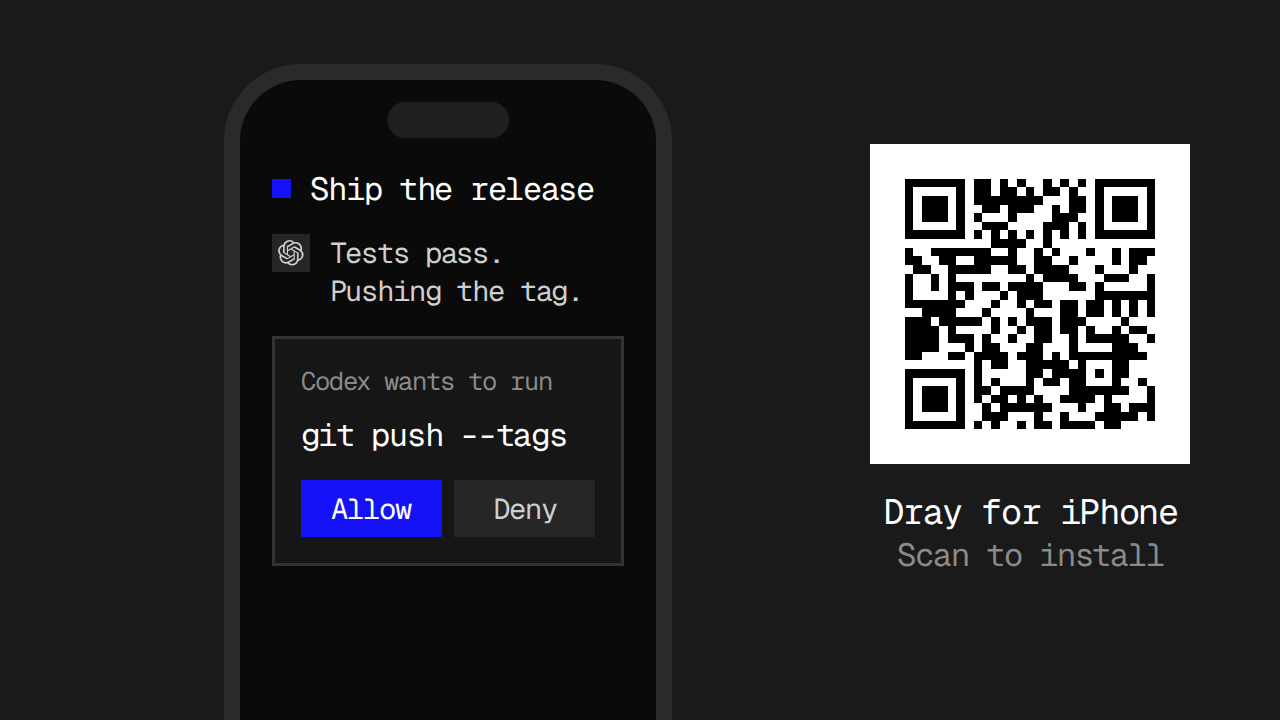
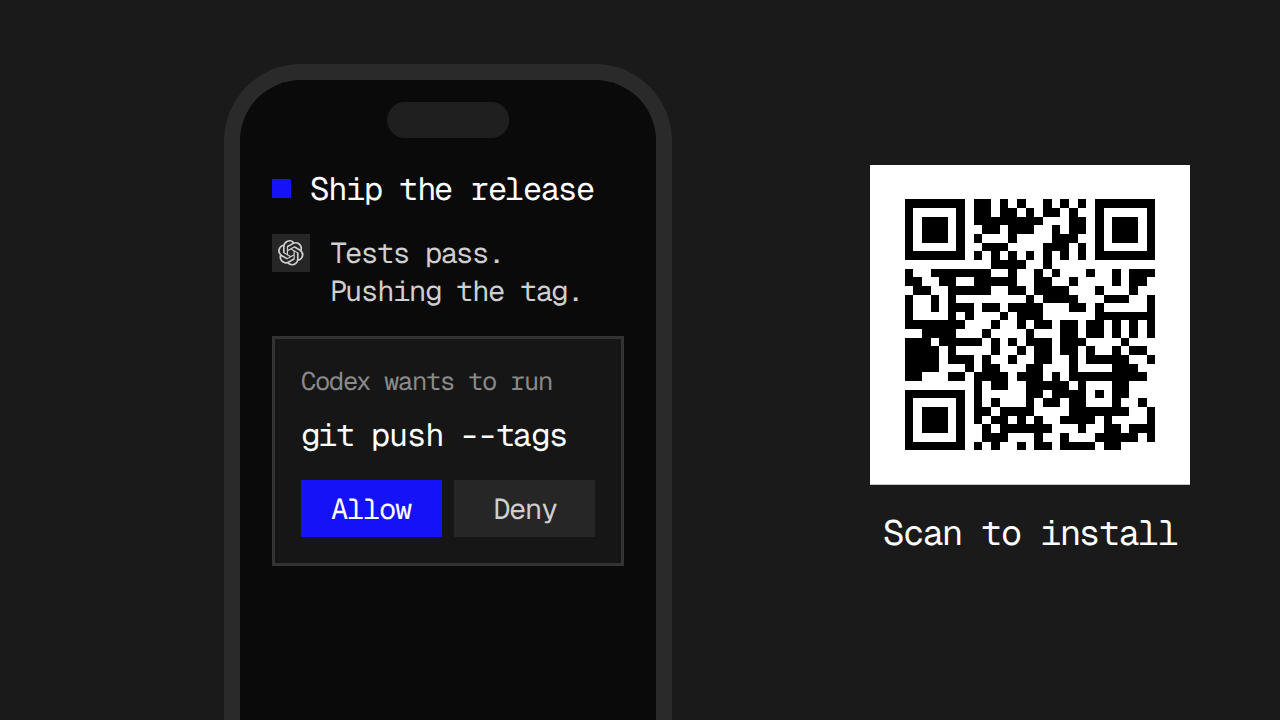
docs(demo): real app screenshot in iPhone take
Lock screen dropped. iPhone take sets the App Store bot-chat export
(01-bot-chat, 6.9in) in a drawn 16 Pro Max frame, QR captioned
Scan to install only. Harness C: Claude mark in brand colour, no
next label. Take F uses harness-composer and iphone-app.

Changed region(s): [[0.6562, 0.1833, 0.9375, 0.7944]]

diff --git a/apps/desktop/src/demo/whatsNewIllustrations.tsx b/apps/desktop/src/demo/whatsNewIllustrations.tsx
@@ -52,15 +52,31 @@ function You({ children, small }: { children: ReactNode; small?: boolean }) {
 }
 
 /// An agent's reply under its mark: grey for the agent it was, blue for the
-/// one it moved to.
-function Says({ harness, picked, small, children }: { harness: Harness; picked?: boolean; small?: boolean; children: ReactNode }) {
+/// one it moved to. `brand` draws the mark in the agent's own colour.
+function Says({
+  harness,
+  picked,
+  brand,
+  small,
+  children,
+}: {
+  harness: Harness;
+  picked?: boolean;
+  brand?: boolean;
+  small?: boolean;
+  children: ReactNode;
+}) {
   return (
     <div className="flex items-start gap-1.5">
       <span
         className={cn("flex shrink-0 items-center justify-center", small ? "size-3" : "size-[15px]")}
         style={{ background: picked ? BLUE : "#262626" }}
       >
-        <AgentIcon harness={harness} className={cn(small ? "size-2" : "size-2.5", picked ? "text-white" : "text-[#CFCFCF]")} />
+        <AgentIcon
+          harness={harness}
+          brand={brand}
+          className={cn(small ? "size-2" : "size-2.5", !brand && (picked ? "text-white" : "text-[#CFCFCF]"))}
+        />
       </span>
       <span className={cn(MONO, "text-[#CFCFCF]", small ? "text-[9px] leading-3" : "text-[11px] leading-[15px]")}>{children}</span>
     </div>
@@ -158,7 +174,9 @@ function HarnessComposer() {
     <div aria-hidden className="flex w-[300px] flex-col bg-[#0A0A0A]">
       <div className="flex flex-col gap-2 px-3 pt-2.5 pb-2">
         <You>Why does sign-in loop?</You>
-        <Says harness="claude_code">The redirect fires twice. Fixed.</Says>
+        <Says harness="claude_code" brand>
+          The redirect fires twice. Fixed.
+        </Says>
       </div>
       <div className="mr-2 flex w-[150px] flex-col self-end border border-[#333333] bg-[#141414] shadow-[0_8px_24px_#000000A0]">
         {rows.map(([h, name]) => {
@@ -167,7 +185,6 @@ function HarnessComposer() {
             <div key={h} className="flex h-6 items-center gap-2 px-2" style={{ background: picked ? BLUE : undefined }}>
               <AgentIcon harness={h} className={cn("size-2.5", picked ? "text-white" : "text-[#8A8A8A]")} />
               <span className={cn(MONO, "text-[11px] leading-[14px]", picked ? "text-white" : "text-[#CFCFCF]")}>{name}</span>
-              {picked && <span className={`${MONO} ml-auto text-[9px] leading-3 text-[#FFFFFFB3]`}>next</span>}
             </div>
           );
         })}
@@ -204,10 +221,7 @@ function ScanToInstall() {
   return (
     <div className="absolute top-1/2 right-7 flex -translate-y-1/2 flex-col items-center gap-2">
       <Qr size={100} />
-      <div className="flex flex-col items-center">
-        <span className={`${MONO} text-[11px] leading-[14px] text-white`}>Dray for iPhone</span>
-        <span className={`${MONO} text-[10px] leading-[13px] text-[#8A8A8A]`}>Scan to install</span>
-      </div>
+      <span className={`${MONO} text-[11px] leading-[14px] text-white`}>Scan to install</span>
     </div>
   );
 }
@@ -273,22 +287,49 @@ function Alert({ title, body, mark }: { title: string; body: string; mark: strin
   );
 }
 
-/// The lock screen while the reader is away: one task ready to merge, one
-/// waiting on an answer, one done.
-function IPhoneLockScreen() {
+/// An iPhone 16 Pro Max drawn to its own proportions (a 440×956pt screen,
+/// 62pt corners, the Dynamic Island 126×37pt at 11pt), titanium rim and side
+/// buttons, bleeding off the tile's foot, a real screenshot on its screen.
+function RealPhone({ left, width = 150, src }: { left: number; width?: number; src: string }) {
+  const pt = (width - 10) / 440;
+  const radius = 62 * pt;
+  const button = (side: "left" | "right", top: number, height: number) => (
+    <span
+      className="absolute w-[2px] rounded-[1px] bg-gradient-to-b from-[#5A5A5E] via-[#3A3A3C] to-[#5A5A5E]"
+      style={{ [side]: -1.5, top: top * pt, height: height * pt }}
+    />
+  );
+  return (
+    <div className="absolute top-4" style={{ left, width }}>
+      {button("left", 150, 50)}
+      {button("left", 235, 85)}
+      {button("left", 335, 85)}
+      {button("right", 270, 135)}
+      {button("right", 560, 70)}
+      <div
+        className="relative bg-gradient-to-br from-[#8E8E93] via-[#3A3A3C] to-[#6E6E73] p-[1.5px] shadow-[0_20px_40px_#000000C0]"
+        style={{ height: 956 * pt + 10, borderRadius: radius + 5 }}
+      >
+        <div className="h-full bg-black p-[3.5px]" style={{ borderRadius: radius + 3.5 }}>
+          <div className="relative h-full overflow-hidden bg-black" style={{ borderRadius: radius }}>
+            <img src={src} alt="" className="absolute inset-0 size-full object-cover object-top" />
+            <span
+              className="absolute left-1/2 -translate-x-1/2 rounded-full bg-black"
+              style={{ top: 11 * pt, width: 126 * pt, height: 37 * pt }}
+            />
+          </div>
+        </div>
+      </div>
+    </div>
+  );
+}
+
+/// The app itself in the phone: the bot chat from its App Store screenshots
+/// (`01-bot-chat`, the 6.9-inch export), a merge and two waiting tasks on it.
+function IPhoneApp() {
   return (
     <div aria-hidden className="absolute inset-0">
-      <Phone left={56} width={156}>
-        <div className="flex flex-col items-center pt-1 pb-1.5">
-          <span className="text-[8px] leading-[10px] text-[#CFCFCF]">Tuesday 24 November</span>
-          <span className="text-[30px] leading-[34px] font-medium tracking-[-0.02em] text-white">9:41</span>
-        </div>
-        <div className="flex flex-col gap-1">
-          <Alert title="Ready to merge" body="Fix login loop" mark="#238636" />
-          <Alert title="Needs you" body="Postgres or SQLite?" mark={BLUE} />
-          <Alert title="Done" body="Add dark mode" mark="#3D3D3D" />
-        </div>
-      </Phone>
+      <RealPhone left={70} src="/demo/whats-new/ios-bot-chat.png" />
       <ScanToInstall />
     </div>
   );
@@ -335,7 +376,7 @@ const ROWS: { title: string; takes: Record<string, { name: string; Art: () => Re
     title: "Dray on iPhone",
     takes: {
       "iphone-permission": { name: "A · Allow from anywhere", Art: IPhonePermission },
-      "iphone-lock": { name: "B · Lock screen", Art: IPhoneLockScreen },
+      "iphone-app": { name: "B · The app in a real frame", Art: IPhoneApp },
       "iphone-question": { name: "C · Answer a question", Art: IPhoneQuestion },
     },
   },

diff --git a/apps/desktop/src/demo/whatsNewData.ts b/apps/desktop/src/demo/whatsNewData.ts
@@ -101,12 +101,12 @@ export const NEXT_RELEASE: Highlight[] = [
   page(
     "Switch a task's harness mid-session.",
     "Pick another harness in the composer and your next message moves the task there, with everything said so far.",
-    [{ kind: "image", url: "/demo/whats-new/harness-chat.png", alt: "One chat, Claude Code answering and then Codex" }],
+    [{ kind: "image", url: "/demo/whats-new/harness-composer.png", alt: "A chat Claude Code answered, Codex picked in the composer for the next message" }],
   ),
   page(
     "Dray is now on iPhone. Work from anywhere.",
     "Every task on every machine, with questions to answer, permissions to allow and alerts when one is ready to merge.",
-    [{ kind: "image", url: "/demo/whats-new/iphone-lock.png", alt: "Dray's alerts on an iPhone lock screen, beside a QR code for the App Store" }],
+    [{ kind: "image", url: "/demo/whats-new/iphone-app.png", alt: "Dray's bot chat on an iPhone, beside a QR code for the App Store" }],
     { label: "Get it on the App Store", target: "https://apps.apple.com/app/id6824145317" },
   ),
 ];

diff --git a/CLAUDE.md b/CLAUDE.md
@@ -272,7 +272,7 @@ That ordering is the whole feature. The index entry lands **before** spawn on pu
 
 ## Demo pages
 
-**Demos are kept, never deleted.** A question answered once comes back — a restyle, a regression, a palette added — and a page already mounting the real component with its inputs faked is the cheapest way to look again. Today: [more-panel.html](apps/desktop/demo/more-panel.html) for the More tab's checklist beside its run list, [pr-empty.html](apps/desktop/demo/pr-empty.html) for the PR panel's empty states, [issues-empty.html](apps/desktop/demo/issues-empty.html) for the issues page with no tracker behind it, [recording-notice.html](apps/desktop/demo/recording-notice.html) for the browser pane while an agent records, and [tab-reorder.html](apps/desktop/demo/tab-reorder.html) for dragging tabs in the titlebar row and the Files strip — its **Run drag check** button drives the drag with synthetic pointer events, since `dray browser` has no drag verb, and [composer-paint.html](apps/desktop/demo/composer-paint.html) for the composer's colours following the text as it is edited — its **Run paint check** must run in WebKit (Safari or the app), since the session browser is Chromium and places typed characters differently, and [servers.html](apps/desktop/demo/servers.html) for the whole app against two real `dray-serve`s, one standing in for the local core — its Tauri IPC is mocked and the mock does in the page what `servers.rs` does in Rust, and [sounds.html](apps/desktop/demo/sounds.html) for every sound Dray and the island make, each with where it plays — update it when a sound is added or moves, and [send-sound.html](apps/desktop/demo/send-sound.html) for the island's send sound, made in code after iMessage's swoosh and auditioned by number key, and [dictation-sound.html](apps/desktop/demo/dictation-sound.html) a slider builder for dictation start and stop sounds in that send sound's family — nothing it made was picked, and dictation kept Handy's pair. [code-render.html](apps/desktop/demo/code-render.html) mounts every code surface — Edit diff, ranged Read, markdown fences, full-file diff, Files view — and times each to its first coloured token, the timings riding the window title so a script can read them out of Safari; run it before and after any `@pierre/diffs` or Shiki bump. [handoff-buttons.html](apps/desktop/demo/handoff-buttons.html) puts Settings → Composer beside the handoff row at full and panel-open widths, with **Hold the rows open** for a screenshot, since hover is what opens one. [video-thumbs.html](apps/desktop/demo/video-thumbs.html) puts the old `#t=0.001` video beside `VideoPlayer` and the lightbox `Thumb`, for a clip starting at zero and one starting at 0.095s like an iOS simulator recording; judge it in Safari, since Chromium and WebKitGTK paint both either way. [boat-warning.html](apps/desktop/demo/boat-warning.html) draws the boat sandbox warning card in each state at the sidebar's width, on a live clock; its island twin is the Boat tab in Island Status Demo. [break-reminder.html](apps/desktop/demo/break-reminder.html) draws every break card ([breakScenes.tsx](apps/desktop/src/components/breakScenes.tsx)) beside Settings' own break rows, card picker included; Show break raises the real overlay, and **Check framing** samples each drawing for six seconds and names any that leaves its box. [squat-tries.html](apps/desktop/demo/squat-tries.html) puts five takes on the squat card's drawing side by side, the shipped one first. [run-rows.html](apps/desktop/demo/run-rows.html) puts the real More tab's Background tasks and Subagents sections in the side panel, over five scenarios; `?set=1` and `?set=2` are the row and card takes it was picked from. Also here, one question each: [agent-update.html](apps/desktop/demo/agent-update.html) for the update line under the new-task composer, and [new-task.html](apps/desktop/demo/new-task.html) for the same line inside the whole app; [issue-multipick.html](apps/desktop/demo/issue-multipick.html) for the `#` picker taking several issues; [live-turn.html](apps/desktop/demo/live-turn.html) for how a turn looks while it runs; [question-card.html](apps/desktop/demo/question-card.html) for the question card surviving a session switch; [quit-dialog.html](apps/desktop/demo/quit-dialog.html) for the quit dialog's two buttons; [server-setup.html](apps/desktop/demo/server-setup.html) for adding and installing a server, state by state; [swipe-tick.html](apps/desktop/demo/swipe-tick.html) for the sidebar swipe's click; [auto-continue.html](apps/desktop/demo/auto-continue.html) for the composer after a turn dies on the usage limit; [task-card.html](apps/desktop/demo/task-card.html) for seven tries at a bot's task line in its chat; [tasks-panel.html](apps/desktop/demo/tasks-panel.html) for a bot's Tasks tab with a pull request in every state, Merge included; [bot-rows.html](apps/desktop/demo/bot-rows.html) for the sidebar's inbox-style bot rows beside task rows, one bot flipping between working and done; [bot-chat-open.html](apps/desktop/demo/bot-chat-open.html) for how long a bot's chat takes to open, the whole app against a real `dray-serve` holding a long log, with `&check=1` scrolling it up and `&focus=<task title>` picking a "Waiting on you" row, each verdict in the title; [bot-chat-live.html](apps/desktop/demo/bot-chat-live.html) for a bot's chat mid-turn through the real streaming store — only reply text may draw a bubble — with a wide screenshot sent beside a message; [merge-card.html](apps/desktop/demo/merge-card.html) for the chat's merge card in every PR state, merging and collapsing; [bot-chat-sends.html](apps/desktop/demo/bot-chat-sends.html) for the rows a bot's `dray session send`/`new` calls draw — a brief naming a send, a loop's `"$id"`, a task that is gone; [stalled-tasks.html](apps/desktop/demo/stalled-tasks.html) for the stalled-tasks card at the foot of a bot's chat, Merge putting the other PRs to Checking…; [bot-focus-jump.html](apps/desktop/demo/bot-focus-jump.html) for a card pick gliding to its reply far above a bot chat's tail, `&paged` reading the log a page at a time, its **Run check** verdict in the title; [bot-mention.html](apps/desktop/demo/bot-mention.html) for `@` listing the other bots in a bot's chat, and the tag it sends; [hidden-chat-scroll.html](apps/desktop/demo/hidden-chat-scroll.html) for a chat left at the bottom staying there across a hidden tab — its **Run check** puts the verdict in the title, in Safari as well. [send-scroll.html](apps/desktop/demo/send-scroll.html) for a send landing in view and the chat following on, however the pin went down before it, in a session and a bot chat; **Run check** the same way. [link-wrap.html](apps/desktop/demo/link-wrap.html) for long links and tags inside the reader's bubble and the agent's reply, bot chat and task chat, light and dark: a link or tag runs on in its sentence and wraps inside itself, never leaving the line. [machine-mark.html](apps/desktop/demo/machine-mark.html) for the server glyph on a bot's task on another machine, row, tab and titlebar. [reaction-badge.html](apps/desktop/demo/reaction-badge.html) for a bot's emoji reaction on the reader's bubble: the real badge and seven takes on its look, each in light and dark side by side; `?takes=ABCD` draws only those. [reaction-centring.html](apps/desktop/demo/reaction-centring.html) for every reaction sitting at its badge's centre by eye: each raw and as `ReactionBadge` centres it by its ink, real size and four times over, with the nudge read out; judge it in Safari or the app for Apple's emoji, its Android twin is the debug `ReactionDemoActivity`. [reaction-shift.html](apps/desktop/demo/reaction-shift.html) for a reaction landing without moving its message or anything after it: the real bot chat, one line, a tight run, full-width bubbles and a message of a picture alone; **Run check** reacts to every message at three widths and says what moved or sits over a neighbour. [learned-chip.html](apps/desktop/demo/learned-chip.html) for a bot chat's Learned line: F is the real `LearnedLine`, its backend stubbed, and A to E the takes it was picked from. [task-servers.html](apps/desktop/demo/task-servers.html) puts five takes on showing a session's dev servers and opening one in a tab side by side, each in a normal session and a bot's row, on This Mac or a boat sandbox, one server or two. [browser-servers.html](apps/desktop/demo/browser-servers.html) puts five more takes inside the browser view itself — new tab, URL bar, toolbar, a stopped server's page — for a session and for a bot's browser gathering its tasks' servers; A is the one built. [cloud.html](apps/desktop/demo/cloud.html) runs the whole app on Dray Cloud against real `dray-serve`s, the control plane faked in the page. [bots-video.html](apps/desktop/demo/bots-video.html) plays a scripted story of Dray and its tasks for the bots video, the whole app with every call answered in the page and no server, most tasks on a mocked `sandbox` server; its proof video and screenshot sit in `demo/bots-video/`, the video VP9 since the session browser plays no H.264, and it loads only while the page is visible, which `dray browser record` makes it; Play or P starts it, `?pace=` scales its pauses, `?still` is the end state. [button-variants.html](apps/desktop/demo/button-variants.html) puts every `Button` variant and size on the white sheet with its resting fill measured live, in Default light. [whats-new.html](apps/desktop/demo/whats-new.html) pages through the what's-new dialog's highlights, an action logged rather than run, beside the small card a release without highlights still gets; `?video=<url>` puts a video on page two. [whats-new-takes.html](apps/desktop/demo/whats-new-takes.html) puts six takes on that dialog side by side over the same pages, each working in place and openable as the full dialog, B the shipped one; `?takes=ACE` draws only those. [whats-new-pages.html](apps/desktop/demo/whats-new-pages.html) puts full-window takes on What's New instead — hero, story, split, grid, spotlight, and F the picked one, a landing page's feature section in the sign-in gate's own frame — each opened over the whole window as the app would, with a 1–6 switch (`?n=`) for how many highlights; F sits on the site's long stripes, copied from its closing band with their ripple, and opens on the next release's own two highlights; [whats-new-illustrations.html](apps/desktop/demo/whats-new-illustrations.html) draws those highlights' pictures in code, three takes on each side by side, `?art=<id>` alone at 1280×720 for capturing to `demo/whats-new/<id>.png`; the iPhone ones carry a real QR code for the App Store link ([appStoreQr.ts](apps/desktop/src/demo/appStoreQr.ts)), so check a new capture still scans; its video and pictures are cut from the site's app screenshots, kept in `demo/whats-new/`. [pr-inbox.html](apps/desktop/demo/pr-inbox.html) draws the pull requests page with every section, a fork's PR, a PR with no session and a settled one, and prints under the page the prompt a send or Start session would carry. [sidebar-icons.html](apps/desktop/demo/sidebar-icons.html) runs the whole app against a real `dray-serve`, as servers.html does, and swaps takes on the sidebar's four icons over the real rows; **original** is what shipped. The composer, fx tool-row and crew-column demos were deleted before this rule and are gone, as was an earlier question-card one. **One page per question, never one page collecting them**, so each stays small enough to read. Check what is here before adding one.
+**Demos are kept, never deleted.** A question answered once comes back — a restyle, a regression, a palette added — and a page already mounting the real component with its inputs faked is the cheapest way to look again. Today: [more-panel.html](apps/desktop/demo/more-panel.html) for the More tab's checklist beside its run list, [pr-empty.html](apps/desktop/demo/pr-empty.html) for the PR panel's empty states, [issues-empty.html](apps/desktop/demo/issues-empty.html) for the issues page with no tracker behind it, [recording-notice.html](apps/desktop/demo/recording-notice.html) for the browser pane while an agent records, and [tab-reorder.html](apps/desktop/demo/tab-reorder.html) for dragging tabs in the titlebar row and the Files strip — its **Run drag check** button drives the drag with synthetic pointer events, since `dray browser` has no drag verb, and [composer-paint.html](apps/desktop/demo/composer-paint.html) for the composer's colours following the text as it is edited — its **Run paint check** must run in WebKit (Safari or the app), since the session browser is Chromium and places typed characters differently, and [servers.html](apps/desktop/demo/servers.html) for the whole app against two real `dray-serve`s, one standing in for the local core — its Tauri IPC is mocked and the mock does in the page what `servers.rs` does in Rust, and [sounds.html](apps/desktop/demo/sounds.html) for every sound Dray and the island make, each with where it plays — update it when a sound is added or moves, and [send-sound.html](apps/desktop/demo/send-sound.html) for the island's send sound, made in code after iMessage's swoosh and auditioned by number key, and [dictation-sound.html](apps/desktop/demo/dictation-sound.html) a slider builder for dictation start and stop sounds in that send sound's family — nothing it made was picked, and dictation kept Handy's pair. [code-render.html](apps/desktop/demo/code-render.html) mounts every code surface — Edit diff, ranged Read, markdown fences, full-file diff, Files view — and times each to its first coloured token, the timings riding the window title so a script can read them out of Safari; run it before and after any `@pierre/diffs` or Shiki bump. [handoff-buttons.html](apps/desktop/demo/handoff-buttons.html) puts Settings → Composer beside the handoff row at full and panel-open widths, with **Hold the rows open** for a screenshot, since hover is what opens one. [video-thumbs.html](apps/desktop/demo/video-thumbs.html) puts the old `#t=0.001` video beside `VideoPlayer` and the lightbox `Thumb`, for a clip starting at zero and one starting at 0.095s like an iOS simulator recording; judge it in Safari, since Chromium and WebKitGTK paint both either way. [boat-warning.html](apps/desktop/demo/boat-warning.html) draws the boat sandbox warning card in each state at the sidebar's width, on a live clock; its island twin is the Boat tab in Island Status Demo. [break-reminder.html](apps/desktop/demo/break-reminder.html) draws every break card ([breakScenes.tsx](apps/desktop/src/components/breakScenes.tsx)) beside Settings' own break rows, card picker included; Show break raises the real overlay, and **Check framing** samples each drawing for six seconds and names any that leaves its box. [squat-tries.html](apps/desktop/demo/squat-tries.html) puts five takes on the squat card's drawing side by side, the shipped one first. [run-rows.html](apps/desktop/demo/run-rows.html) puts the real More tab's Background tasks and Subagents sections in the side panel, over five scenarios; `?set=1` and `?set=2` are the row and card takes it was picked from. Also here, one question each: [agent-update.html](apps/desktop/demo/agent-update.html) for the update line under the new-task composer, and [new-task.html](apps/desktop/demo/new-task.html) for the same line inside the whole app; [issue-multipick.html](apps/desktop/demo/issue-multipick.html) for the `#` picker taking several issues; [live-turn.html](apps/desktop/demo/live-turn.html) for how a turn looks while it runs; [question-card.html](apps/desktop/demo/question-card.html) for the question card surviving a session switch; [quit-dialog.html](apps/desktop/demo/quit-dialog.html) for the quit dialog's two buttons; [server-setup.html](apps/desktop/demo/server-setup.html) for adding and installing a server, state by state; [swipe-tick.html](apps/desktop/demo/swipe-tick.html) for the sidebar swipe's click; [auto-continue.html](apps/desktop/demo/auto-continue.html) for the composer after a turn dies on the usage limit; [task-card.html](apps/desktop/demo/task-card.html) for seven tries at a bot's task line in its chat; [tasks-panel.html](apps/desktop/demo/tasks-panel.html) for a bot's Tasks tab with a pull request in every state, Merge included; [bot-rows.html](apps/desktop/demo/bot-rows.html) for the sidebar's inbox-style bot rows beside task rows, one bot flipping between working and done; [bot-chat-open.html](apps/desktop/demo/bot-chat-open.html) for how long a bot's chat takes to open, the whole app against a real `dray-serve` holding a long log, with `&check=1` scrolling it up and `&focus=<task title>` picking a "Waiting on you" row, each verdict in the title; [bot-chat-live.html](apps/desktop/demo/bot-chat-live.html) for a bot's chat mid-turn through the real streaming store — only reply text may draw a bubble — with a wide screenshot sent beside a message; [merge-card.html](apps/desktop/demo/merge-card.html) for the chat's merge card in every PR state, merging and collapsing; [bot-chat-sends.html](apps/desktop/demo/bot-chat-sends.html) for the rows a bot's `dray session send`/`new` calls draw — a brief naming a send, a loop's `"$id"`, a task that is gone; [stalled-tasks.html](apps/desktop/demo/stalled-tasks.html) for the stalled-tasks card at the foot of a bot's chat, Merge putting the other PRs to Checking…; [bot-focus-jump.html](apps/desktop/demo/bot-focus-jump.html) for a card pick gliding to its reply far above a bot chat's tail, `&paged` reading the log a page at a time, its **Run check** verdict in the title; [bot-mention.html](apps/desktop/demo/bot-mention.html) for `@` listing the other bots in a bot's chat, and the tag it sends; [hidden-chat-scroll.html](apps/desktop/demo/hidden-chat-scroll.html) for a chat left at the bottom staying there across a hidden tab — its **Run check** puts the verdict in the title, in Safari as well. [send-scroll.html](apps/desktop/demo/send-scroll.html) for a send landing in view and the chat following on, however the pin went down before it, in a session and a bot chat; **Run check** the same way. [link-wrap.html](apps/desktop/demo/link-wrap.html) for long links and tags inside the reader's bubble and the agent's reply, bot chat and task chat, light and dark: a link or tag runs on in its sentence and wraps inside itself, never leaving the line. [machine-mark.html](apps/desktop/demo/machine-mark.html) for the server glyph on a bot's task on another machine, row, tab and titlebar. [reaction-badge.html](apps/desktop/demo/reaction-badge.html) for a bot's emoji reaction on the reader's bubble: the real badge and seven takes on its look, each in light and dark side by side; `?takes=ABCD` draws only those. [reaction-centring.html](apps/desktop/demo/reaction-centring.html) for every reaction sitting at its badge's centre by eye: each raw and as `ReactionBadge` centres it by its ink, real size and four times over, with the nudge read out; judge it in Safari or the app for Apple's emoji, its Android twin is the debug `ReactionDemoActivity`. [reaction-shift.html](apps/desktop/demo/reaction-shift.html) for a reaction landing without moving its message or anything after it: the real bot chat, one line, a tight run, full-width bubbles and a message of a picture alone; **Run check** reacts to every message at three widths and says what moved or sits over a neighbour. [learned-chip.html](apps/desktop/demo/learned-chip.html) for a bot chat's Learned line: F is the real `LearnedLine`, its backend stubbed, and A to E the takes it was picked from. [task-servers.html](apps/desktop/demo/task-servers.html) puts five takes on showing a session's dev servers and opening one in a tab side by side, each in a normal session and a bot's row, on This Mac or a boat sandbox, one server or two. [browser-servers.html](apps/desktop/demo/browser-servers.html) puts five more takes inside the browser view itself — new tab, URL bar, toolbar, a stopped server's page — for a session and for a bot's browser gathering its tasks' servers; A is the one built. [cloud.html](apps/desktop/demo/cloud.html) runs the whole app on Dray Cloud against real `dray-serve`s, the control plane faked in the page. [bots-video.html](apps/desktop/demo/bots-video.html) plays a scripted story of Dray and its tasks for the bots video, the whole app with every call answered in the page and no server, most tasks on a mocked `sandbox` server; its proof video and screenshot sit in `demo/bots-video/`, the video VP9 since the session browser plays no H.264, and it loads only while the page is visible, which `dray browser record` makes it; Play or P starts it, `?pace=` scales its pauses, `?still` is the end state. [button-variants.html](apps/desktop/demo/button-variants.html) puts every `Button` variant and size on the white sheet with its resting fill measured live, in Default light. [whats-new.html](apps/desktop/demo/whats-new.html) pages through the what's-new dialog's highlights, an action logged rather than run, beside the small card a release without highlights still gets; `?video=<url>` puts a video on page two. [whats-new-takes.html](apps/desktop/demo/whats-new-takes.html) puts six takes on that dialog side by side over the same pages, each working in place and openable as the full dialog, B the shipped one; `?takes=ACE` draws only those. [whats-new-pages.html](apps/desktop/demo/whats-new-pages.html) puts full-window takes on What's New instead — hero, story, split, grid, spotlight, and F the picked one, a landing page's feature section in the sign-in gate's own frame — each opened over the whole window as the app would, with a 1–6 switch (`?n=`) for how many highlights; F sits on the site's long stripes, copied from its closing band with their ripple, and opens on the next release's own two highlights; [whats-new-illustrations.html](apps/desktop/demo/whats-new-illustrations.html) draws those highlights' pictures in code, three takes on each side by side, `?art=<id>` alone at 1280×720 for capturing to `demo/whats-new/<id>.png`; the iPhone ones carry a real QR code for the App Store link ([appStoreQr.ts](apps/desktop/src/demo/appStoreQr.ts)), so check a new capture still scans, and the picked one sets the iPhone app's own App Store screenshot in a drawn iPhone 16 Pro Max; its video and pictures are cut from the site's app screenshots, kept in `demo/whats-new/`. [pr-inbox.html](apps/desktop/demo/pr-inbox.html) draws the pull requests page with every section, a fork's PR, a PR with no session and a settled one, and prints under the page the prompt a send or Start session would carry. [sidebar-icons.html](apps/desktop/demo/sidebar-icons.html) runs the whole app against a real `dray-serve`, as servers.html does, and swaps takes on the sidebar's four icons over the real rows; **original** is what shipped. The composer, fx tool-row and crew-column demos were deleted before this rule and are gone, as was an earlier question-card one. **One page per question, never one page collecting them**, so each stays small enough to read. Check what is here before adding one.
 
 **A demo is its own page, never a flag on the real one.** An HTML page in `apps/desktop/demo/` (`demo/<question>.html`) loading its own entry from `src/demo/`, and opened at `/demo/<question>.html`. Vite's dev server serves any HTML under the package root, so it is reachable under `pnpm dev`; `vite.config.ts` names no extra `rollupOptions.input`, so `pnpm build` emits `index.html` alone. Gating on a query flag was the rejected alternative: it puts demo-only branches inside production code paths. A demo mounts the **real** components with faked inputs, and needs no test seam in `src/`: stub the Tauri bridge in the demo itself.
 
